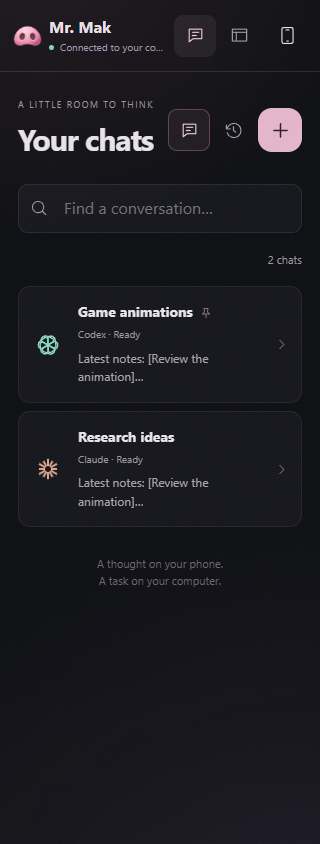
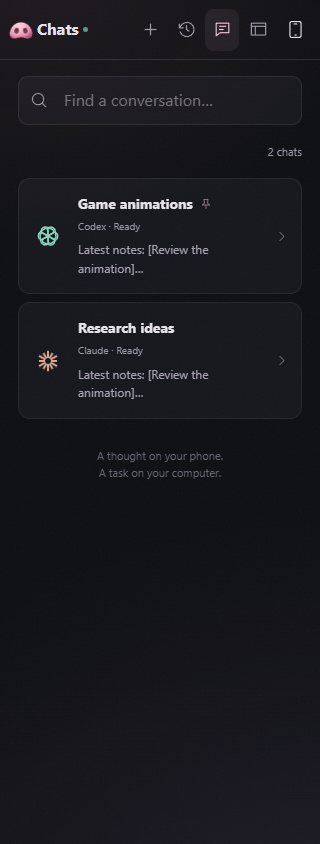
Compact mobile header with view titles and connection pulse

diff --git a/src/mobile/mobile.css b/src/mobile/mobile.css
@@ -8,9 +8,12 @@
 .mobile-app button { background: #202028; border: 1px solid #34323e; border-radius: 9px; padding: 9px 13px; }
 .mobile-app p { margin: 0 0 12px; }.mobile-app h1, .mobile-app h2, .mobile-app h3 { margin: 0; color: inherit; }
 .mobile-app .mobile-icon { border: none; background: transparent; width: 42px; height: 42px; padding: 10px; display: inline-grid; place-items: center; flex-shrink: 0; }
-.mobile-header { flex-shrink: 0; display: flex; gap: 6px; align-items: center; padding: max(10px, env(safe-area-inset-top)) 12px 10px; border-bottom: 1px solid var(--m-line); min-height: 72px; }
-.mobile-header > div { flex: 1; min-width: 0; }.mobile-header strong { display: block; font-size: 16px; white-space: nowrap; overflow: hidden; text-overflow: ellipsis; }.mobile-header small { display: flex; align-items: center; gap: 6px; font-size: 10px; color: var(--m-muted); }.mobile-header small span { overflow: hidden; text-overflow: ellipsis; white-space: nowrap; }.mobile-header small i { flex-shrink: 0; width: 5px; height: 5px; border-radius: 50%; background: #c0a367; }.mobile-header small i.online { background: #8bd6b8; }
-.mobile-eyebrow { font-size: 9px; letter-spacing: .16em; color: var(--m-muted); }.mobile-chat-list { flex: 1; min-width: 0; min-height: 0; overflow-y: auto; overflow-x: hidden; overscroll-behavior-x: none; padding: 26px 18px max(20px, env(safe-area-inset-bottom)); }.mobile-list-title { display: flex; align-items: center; justify-content: space-between; gap: 8px; margin-bottom: 22px; }.mobile-list-title > div:first-child { min-width: 0; }.mobile-list-title .mobile-eyebrow { display: block; overflow: hidden; text-overflow: ellipsis; white-space: nowrap; }.mobile-list-actions { display: flex; align-items: center; gap: 4px; flex-shrink: 0; }.mobile-list-title h1 { font-size: 30px; letter-spacing: -.035em; margin-top: 4px; }.mobile-app .mobile-new { background: var(--m-accent); color: #2d1d27; width: 44px; height: 44px; display: grid; place-items: center; padding: 0; border: none; border-radius: 14px; }
+.mobile-header { flex-shrink: 0; display: flex; gap: 4px; align-items: center; padding: max(8px, env(safe-area-inset-top)) 10px 8px; border-bottom: 1px solid var(--m-line); min-height: 60px; }
+.mobile-header > svg { flex-shrink: 0; }.mobile-header-title { flex: 1; min-width: 0; display: flex; align-items: center; gap: 6px; }.mobile-header-title h1 { font-size: 16px; white-space: nowrap; overflow: hidden; text-overflow: ellipsis; }.mobile-connection { flex-shrink: 0; width: 5px; height: 5px; border-radius: 50%; background: #c0a367; }.mobile-connection.online { background: #8bd6b8; animation: mobile-connection-glow 3.6s ease-in-out infinite; }
+@keyframes mobile-connection-glow { 0%,100% { opacity: .65; box-shadow: 0 0 1px #8bd6b833; } 50% { opacity: 1; box-shadow: 0 0 7px 2px #8bd6b866; } }
+@media (max-width: 360px) { .mobile-header { padding-left: 8px; padding-right: 8px; gap: 3px; }.mobile-header .mobile-icon { width: 34px; padding: 7px; }.mobile-header-title { gap: 4px; } }
+
+.mobile-eyebrow { font-size: 9px; letter-spacing: .16em; color: var(--m-muted); }.mobile-chat-list { flex: 1; min-width: 0; min-height: 0; overflow-y: auto; overflow-x: hidden; overscroll-behavior-x: none; padding: 16px 18px max(20px, env(safe-area-inset-bottom)); }.mobile-list-title { display: flex; align-items: center; justify-content: space-between; gap: 8px; margin-bottom: 22px; }.mobile-list-title > div:first-child { min-width: 0; }.mobile-list-title .mobile-eyebrow { display: block; overflow: hidden; text-overflow: ellipsis; white-space: nowrap; }.mobile-list-actions { display: flex; align-items: center; gap: 4px; flex-shrink: 0; }.mobile-list-title h1 { font-size: 30px; letter-spacing: -.035em; margin-top: 4px; }.mobile-app .mobile-new { background: var(--m-accent); color: #2d1d27; width: 44px; height: 44px; display: grid; place-items: center; padding: 0; border: none; border-radius: 14px; }
 .mobile-search { display: flex; align-items: center; gap: 8px; background: var(--m-panel); border: 1px solid var(--m-line); border-radius: 10px; padding-left: 12px; color: var(--m-muted); }.mobile-search input { flex: 1; border: none; background: transparent; padding: 11px 8px; font-size: 16px; }
 .mobile-list-tabs { display: flex; gap: 2px; align-items: center; }.mobile-list-tabs button { color: var(--m-muted); }.mobile-list-tabs button.active { box-shadow: inset 0 0 0 1px #5d414e; background: #e4b6cd12; color: #eccbda; }.mobile-list-count { margin: 18px 0; text-align: right; font-size: 11px; color: var(--m-muted); }
 .mobile-chat-cards { display: grid; grid-template-columns: minmax(0, 1fr); gap: 8px; min-width: 0; }.mobile-app .mobile-chat-card { display: flex; text-align: left; gap: 13px; align-items: center; width: 100%; min-width: 0; padding: 16px 12px; background: var(--m-panel); border: 1px solid #26252e; border-radius: 12px; }.mobile-chat-card > svg { flex-shrink: 0; color: #736c80; }.mobile-agent-icon { position: relative; display: grid; place-items: center; width: 34px; flex-shrink: 0; color: var(--chat-color); }.mobile-agent-icon > i { position: absolute; width: 7px; height: 7px; border-radius: 50%; background: #ef7686; right: 0; top: -4px; }.working .mobile-agent-icon > svg { animation: mobile-glow 2.4s ease-in-out infinite; }.mobile-card-copy { flex: 1; min-width: 0; }.mobile-card-copy strong { display: flex; gap: 7px; align-items: center; font-size: 14px; line-height: 1.35; overflow-wrap: anywhere; }.mobile-card-copy strong svg { flex-shrink: 0; color: #a98b9e; }.mobile-card-copy small { display: block; color: var(--m-muted); margin-top: 5px; font-size: 10px; }.mobile-card-copy p { overflow-wrap: anywhere; color: #aaa3b4; font-size: 12px; margin: 6px 0 0; overflow: hidden; display: -webkit-box; -webkit-box-orient: vertical; -webkit-line-clamp: 2; }.mobile-list-foot { text-align: center; font-size: 11px; color: #6b6575; padding: 28px 0 8px; }.mobile-list-empty { color: var(--m-muted); padding: 25px 0; }
@@ -23,7 +26,7 @@
 .mobile-modal-backdrop { position: fixed; inset: 0; background: #0009; display: flex; align-items: end; justify-content: center; z-index: 40; padding: 12px; }.mobile-modal { width: min(420px, 100%); padding: 22px; border-radius: 18px; border: 1px solid #453548; background: #1a161f; display: grid; gap: 17px; max-height: 90dvh; overflow-y: auto; }.mobile-modal header { display: flex; align-items: center; justify-content: space-between; }.mobile-modal header h2 { font-size: 21px; }.mobile-modal p { color: #a99caf; font-size: 12px; }
 @keyframes mobile-glow { 0%,100% { filter: drop-shadow(0 0 1px currentColor); opacity: .75; } 50% { filter: drop-shadow(0 0 7px currentColor); opacity: 1; } }
 .mobile-main-nav { display: flex; gap: 2px; flex-shrink: 0; }.mobile-main-nav button { color: var(--m-muted); }.mobile-main-nav button.active { background: #e4b6cd15; color: #ebc9da; }
-.mobile-results { flex: 1; min-height: 0; display: flex; flex-direction: column; }.mobile-results-list { overflow-y: auto; padding: 24px 18px; }.mobile-results-list h1 { font-size: 26px; letter-spacing: -.04em; margin: 4px 0 22px; }.mobile-results-list .mobile-search { margin-bottom: 18px; }.mobile-app .mobile-result-card { width: 100%; display: flex; gap: 10px; align-items: center; padding: 16px 13px; margin-bottom: 8px; background: var(--m-panel); text-align: left; }.mobile-result-card > span { flex: 1; min-width: 0; }.mobile-result-card strong { font-size: 13px; display: block; overflow-wrap: anywhere; }.mobile-result-card small { display: block; color: var(--m-muted); font-size: 10px; margin-top: 4px; }.mobile-report-heading { display: flex; align-items: center; gap: 7px; padding: 6px 10px; border-bottom: 1px solid var(--m-line); flex-shrink: 0; }.mobile-report-heading strong { font-size: 12px; }.mobile-report-tabs { display: flex; flex-wrap: wrap; gap: 5px; padding: 9px 12px; flex-shrink: 0; max-height: 24dvh; overflow-y: auto; }.mobile-report-tabs button { font-size: 10px; padding: 7px 9px; }.mobile-report-tabs button.active { border-color: #896076; background: #e4b6cd15; }.mobile-results iframe { flex: 1; min-height: 0; width: 100%; border: 0; background: #101115; color-scheme: dark; }.mobile-report-markdown { flex: 1; min-height: 0; overflow-y: auto; padding: 5px 20px 30px; margin: 0; }.mobile-report-note { padding: 20px; color: var(--m-muted); font-size: 12px; }
+.mobile-results { flex: 1; min-height: 0; display: flex; flex-direction: column; }.mobile-results-list { overflow-y: auto; padding: 16px 18px; }.mobile-results-list h1 { font-size: 26px; letter-spacing: -.04em; margin: 4px 0 22px; }.mobile-results-list .mobile-search { margin-bottom: 18px; }.mobile-app .mobile-result-card { width: 100%; display: flex; gap: 10px; align-items: center; padding: 16px 13px; margin-bottom: 8px; background: var(--m-panel); text-align: left; }.mobile-result-card > span { flex: 1; min-width: 0; }.mobile-result-card strong { font-size: 13px; display: block; overflow-wrap: anywhere; }.mobile-result-card small { display: block; color: var(--m-muted); font-size: 10px; margin-top: 4px; }.mobile-report-heading { display: flex; align-items: center; gap: 7px; padding: 6px 10px; border-bottom: 1px solid var(--m-line); flex-shrink: 0; }.mobile-report-heading strong { font-size: 12px; }.mobile-report-tabs { display: flex; flex-wrap: wrap; gap: 5px; padding: 9px 12px; flex-shrink: 0; max-height: 24dvh; overflow-y: auto; }.mobile-report-tabs button { font-size: 10px; padding: 7px 9px; }.mobile-report-tabs button.active { border-color: #896076; background: #e4b6cd15; }.mobile-results iframe { flex: 1; min-height: 0; width: 100%; border: 0; background: #101115; color-scheme: dark; }.mobile-report-markdown { flex: 1; min-height: 0; overflow-y: auto; padding: 5px 20px 30px; margin: 0; }.mobile-report-note { padding: 20px; color: var(--m-muted); font-size: 12px; }
 @media (prefers-reduced-motion: reduce) { .mobile-app * { animation: none !important; } }
 .mobile-compose-actions { display: grid; grid-template-columns: 42px 42px minmax(0, 1fr) auto; }
 .mobile-compose-actions > span { min-width: 0; }

diff --git a/src/mobile/MobileApp.tsx b/src/mobile/MobileApp.tsx
@@ -132,11 +132,22 @@ export default function MobileApp() {
   if (!state.ready) return <div className="mobile-app mobile-loading"><Nose size={52} /><p>Connecting to Mr. Mak…</p></div>
   if (!state.authenticated) return <div className="mobile-app"><Connect /></div>
   const items = [...state.sessions].filter(item => (history || item.open) && `${item.name} ${item.agent}`.toLowerCase().includes(query.toLowerCase())).sort((a, b) => Number(b.pinned) - Number(a.pinned) || (history ? b.updatedAt.localeCompare(a.updatedAt) : a.tabOrder - b.tabOrder))
-  return <div className="mobile-app"><header className="mobile-header">{view === 'chat' ? <button className="mobile-icon" aria-label="Back to chats" onClick={() => setView('list')}><Icon name="back" /></button> : <Nose size={31} />}<div><strong>{view === 'chat' && session ? session.name : 'Mr. Mak'}</strong><small><i className={state.connected ? 'online' : ''} /><span>{state.connected ? 'Connected to your computer' : 'Reconnecting · your agents keep working'}</span></small></div>{view === 'chat' && session?.open && <button className="mobile-icon" aria-label="Close chat" title="Close chat" disabled={!state.connected || closing} onClick={() => void closeChat()}><Icon name="close" size={19} /></button>}<nav className="mobile-main-nav" aria-label="Mobile sections"><button className={`mobile-icon ${view !== 'results' ? 'active' : ''}`} aria-label="Chats" title="Chats" aria-current={view !== 'results' ? 'page' : undefined} onClick={() => setView('list')}><Icon name="chats" size={19} /></button><button className={`mobile-icon ${view === 'results' ? 'active' : ''}`} aria-label="Results" title="Results" aria-current={view === 'results' ? 'page' : undefined} onClick={() => setView('results')}><Icon name="workspace" size={19} /></button></nav><button className="mobile-icon" aria-label="Phone settings" onClick={() => setSettings(!settings)}><Icon name="phone" size={19} /></button></header>
+  const title = view === 'chat' && session ? session.name : view === 'results' ? 'Workspace' : history ? 'History' : 'Chats'
+  return <div className="mobile-app"><header className="mobile-header">
+    {view === 'chat' ? <button className="mobile-icon" aria-label="Back to chats" onClick={() => setView('list')}><Icon name="back" /></button> : <Nose size={26} />}
+    <div className="mobile-header-title"><h1>{title}</h1><i className={`mobile-connection ${state.connected ? 'online' : ''}`} role="status" aria-label={state.connected ? 'Connected to your computer' : 'Reconnecting · your agents keep working'} title={state.connected ? 'Connected to your computer' : 'Reconnecting · your agents keep working'} /></div>
+    {view === 'chat' && session?.open && <button className="mobile-icon" aria-label="Close chat" title="Close chat" disabled={!state.connected || closing} onClick={() => void closeChat()}><Icon name="close" size={19} /></button>}
+    <nav className="mobile-main-nav" aria-label="Mobile sections">
+      {view === 'list' && <><button className="mobile-icon" aria-label="New chat" title="New chat" onClick={() => setCreating(true)} disabled={!state.connected}><Icon name="plus" size={19} /></button><button className={`mobile-icon ${history ? 'active' : ''}`} aria-label="History" title={history ? 'Show active chats' : 'Chat history'} aria-pressed={history} onClick={() => setHistory(!history)}><Icon name="history" size={19} /></button></>}
+      <button className={`mobile-icon ${view !== 'results' ? 'active' : ''}`} aria-label="Chats" title="Chats" aria-current={view !== 'results' ? 'page' : undefined} onClick={() => { setHistory(false); setView('list') }}><Icon name="chats" size={19} /></button>
+      <button className={`mobile-icon ${view === 'results' ? 'active' : ''}`} aria-label="Results" title="Workspace" aria-current={view === 'results' ? 'page' : undefined} onClick={() => setView('results')}><Icon name="workspace" size={19} /></button>
+    </nav>
+    <button className="mobile-icon" aria-label="Phone settings" title="Phone settings" onClick={() => setSettings(!settings)}><Icon name="phone" size={19} /></button>
+  </header>
     {!state.connected && <div className="mobile-offline" role="status">{state.error || 'Reconnecting… Keep Tailscale connected and your computer awake.'}</div>}
     {closeError && <div className="mobile-error" role="alert">{closeError}<button className="mobile-icon" aria-label="Dismiss close error" onClick={() => setCloseError('')}><Icon name="close" size={15} /></button></div>}
     {settings && <div className="mobile-device-settings"><strong>{state.device?.name}</strong><p>Chats run on your computer. Switching views here leaves your desktop view alone.</p><p>Add this page to your Home Screen from your browser's menu.</p><button onClick={() => { if (window.confirm('Disconnect this phone from Mr. Mak?')) void disconnectMobile() }}>Disconnect this phone</button></div>}
-    {view === 'results' ? <Results /> : view === 'chat' && session ? <Conversation key={session.id} session={session} /> : <main className="mobile-chat-list"><div className="mobile-list-title"><div><span className="mobile-eyebrow">A LITTLE ROOM TO THINK</span><h1>Your chats</h1></div><div className="mobile-list-actions"><nav className="mobile-list-tabs" aria-label="Chat filters"><button className={`mobile-icon ${!history ? 'active' : ''}`} aria-label="Active" title="Active chats" aria-pressed={!history} onClick={() => setHistory(false)}><Icon name="chats" size={19} /></button><button className={`mobile-icon ${history ? 'active' : ''}`} aria-label="History" title="Chat history" aria-pressed={history} onClick={() => setHistory(true)}><Icon name="history" size={19} /></button></nav><button className="mobile-new" aria-label="New chat" onClick={() => setCreating(true)} disabled={!state.connected}><Icon name="plus" size={23} /></button></div></div><label className="mobile-search"><Icon name="search" size={17} /><input aria-label="Find a chat" placeholder="Find a conversation…" value={query} onChange={event => setQuery(event.target.value)} /></label><div className="mobile-list-count">{items.length} chats</div><div className="mobile-chat-cards">{items.map(item => <button className={`mobile-chat-card ${item.activity === 'working' ? 'working' : ''}`} key={item.id} onClick={() => open(item.id)} style={{ '--chat-color': item.tabColor || state.agents.find(agent => agent.id === item.agent)?.color || '#d7aabd' } as React.CSSProperties}><span className="mobile-agent-icon"><AgentLogo agent={item.agent} size={24} />{item.unread && <i />}</span><span className="mobile-card-copy"><strong>{item.name}{item.pinned && <Icon name="pin" size={12} />}</strong><small>{item.agent === 'claude' ? 'Claude' : item.agent === 'codex' ? 'Codex' : item.agent === 'opencode' ? 'OpenCode' : 'Kimi'} · {chatActivityLabel(item)}</small>{item.preview && <p>{item.preview}</p>}</span><Icon name="arrow" size={15} /></button>)}{!items.length && <p className="mobile-list-empty">{query ? 'No matching chats.' : 'Open a chat to give your next idea a place.'}</p>}</div><p className="mobile-list-foot">A thought on your phone.<br />A task on your computer.</p></main>}
+    {view === 'results' ? <Results /> : view === 'chat' && session ? <Conversation key={session.id} session={session} /> : <main className="mobile-chat-list"><label className="mobile-search"><Icon name="search" size={17} /><input aria-label="Find a chat" placeholder="Find a conversation…" value={query} onChange={event => setQuery(event.target.value)} /></label><div className="mobile-list-count">{items.length} chats</div><div className="mobile-chat-cards">{items.map(item => <button className={`mobile-chat-card ${item.activity === 'working' ? 'working' : ''}`} key={item.id} onClick={() => open(item.id)} style={{ '--chat-color': item.tabColor || state.agents.find(agent => agent.id === item.agent)?.color || '#d7aabd' } as React.CSSProperties}><span className="mobile-agent-icon"><AgentLogo agent={item.agent} size={24} />{item.unread && <i />}</span><span className="mobile-card-copy"><strong>{item.name}{item.pinned && <Icon name="pin" size={12} />}</strong><small>{item.agent === 'claude' ? 'Claude' : item.agent === 'codex' ? 'Codex' : item.agent === 'opencode' ? 'OpenCode' : 'Kimi'} · {chatActivityLabel(item)}</small>{item.preview && <p>{item.preview}</p>}</span><Icon name="arrow" size={15} /></button>)}{!items.length && <p className="mobile-list-empty">{query ? 'No matching chats.' : 'Open a chat to give your next idea a place.'}</p>}</div><p className="mobile-list-foot">A thought on your phone.<br />A task on your computer.</p></main>}
     {creating && <NewChat close={() => setCreating(false)} opened={open} />}
   </div>
 }

diff --git a/src/mobile/Results.tsx b/src/mobile/Results.tsx
@@ -19,5 +19,5 @@ export default function Results() {
   }, [selected, step])
   function open(report: Report) { setPreview(null); setLoading(true); setSelected(report); setStep(0); setError('') }
   const relativeUrl = (url: string) => { const safe = defaultUrlTransform(url); return safe && preview ? new URL(safe, new URL(preview.url, location.origin)).href : safe }
-  return <section className="mobile-results">{selected ? <><div className="mobile-report-heading"><button className="mobile-icon" aria-label="Close report" onClick={() => { setSelected(null); setPreview(null); setError('') }}><Icon name="back" /></button><strong>{selected.title}</strong></div><div className="mobile-report-tabs">{selected.steps.map(item => <button key={item.index} className={step === item.index ? 'active' : ''} onClick={() => { if (item.index !== step) { setPreview(null); setLoading(true); setStep(item.index); setError('') } }}>{item.name}</button>)}</div>{loading && <p className="mobile-report-note">Opening report…</p>}{preview?.kind === 'html' && <iframe title={`${preview.title} · ${preview.step}`} src={preview.url} sandbox="allow-scripts allow-downloads allow-popups allow-popups-to-escape-sandbox" referrerPolicy="no-referrer" />}{preview?.kind === 'markdown' && <article className="mobile-message mobile-report-markdown"><ReactMarkdown remarkPlugins={[remarkGfm]} urlTransform={relativeUrl} components={{ a: ({ href, children }) => <a href={href} target="_blank" rel="noreferrer">{children}</a>, img: ({ src, alt }) => <a href={src} target="_blank" rel="noreferrer"><img src={src} alt={alt || ''} loading="lazy" /></a> }}>{preview.text || ''}</ReactMarkdown></article>}</> : <div className="mobile-results-list"><span className="mobile-eyebrow">THE USEFUL PARTS, IN VIEW</span><h1>Workspace results</h1><label className="mobile-search"><Icon name="search" size={17} /><input aria-label="Find a report" value={query} onChange={event => setQuery(event.target.value)} placeholder="Find a report…" /></label>{reports.filter(item => `${item.title} ${item.category}`.toLowerCase().includes(query.toLowerCase())).map(item => <button className="mobile-result-card" key={item.id} onClick={() => open(item)}><span><strong>{item.title}</strong><small>{item.category} · {item.steps.length} {item.steps.length === 1 ? 'tab' : 'tabs'}</small></span><Icon name="arrow" size={16} /></button>)}</div>}{error && <p className="mobile-error" role="alert">{error}</p>}</section>
+  return <section className="mobile-results">{selected ? <><div className="mobile-report-heading"><button className="mobile-icon" aria-label="Close report" onClick={() => { setSelected(null); setPreview(null); setError('') }}><Icon name="back" /></button><strong>{selected.title}</strong></div><div className="mobile-report-tabs">{selected.steps.map(item => <button key={item.index} className={step === item.index ? 'active' : ''} onClick={() => { if (item.index !== step) { setPreview(null); setLoading(true); setStep(item.index); setError('') } }}>{item.name}</button>)}</div>{loading && <p className="mobile-report-note">Opening report…</p>}{preview?.kind === 'html' && <iframe title={`${preview.title} · ${preview.step}`} src={preview.url} sandbox="allow-scripts allow-downloads allow-popups allow-popups-to-escape-sandbox" referrerPolicy="no-referrer" />}{preview?.kind === 'markdown' && <article className="mobile-message mobile-report-markdown"><ReactMarkdown remarkPlugins={[remarkGfm]} urlTransform={relativeUrl} components={{ a: ({ href, children }) => <a href={href} target="_blank" rel="noreferrer">{children}</a>, img: ({ src, alt }) => <a href={src} target="_blank" rel="noreferrer"><img src={src} alt={alt || ''} loading="lazy" /></a> }}>{preview.text || ''}</ReactMarkdown></article>}</> : <div className="mobile-results-list"><label className="mobile-search"><Icon name="search" size={17} /><input aria-label="Find a report" value={query} onChange={event => setQuery(event.target.value)} placeholder="Find a report…" /></label>{reports.filter(item => `${item.title} ${item.category}`.toLowerCase().includes(query.toLowerCase())).map(item => <button className="mobile-result-card" key={item.id} onClick={() => open(item)}><span><strong>{item.title}</strong><small>{item.category} · {item.steps.length} {item.steps.length === 1 ? 'tab' : 'tabs'}</small></span><Icon name="arrow" size={16} /></button>)}</div>}{error && <p className="mobile-error" role="alert">{error}</p>}</section>
 }
